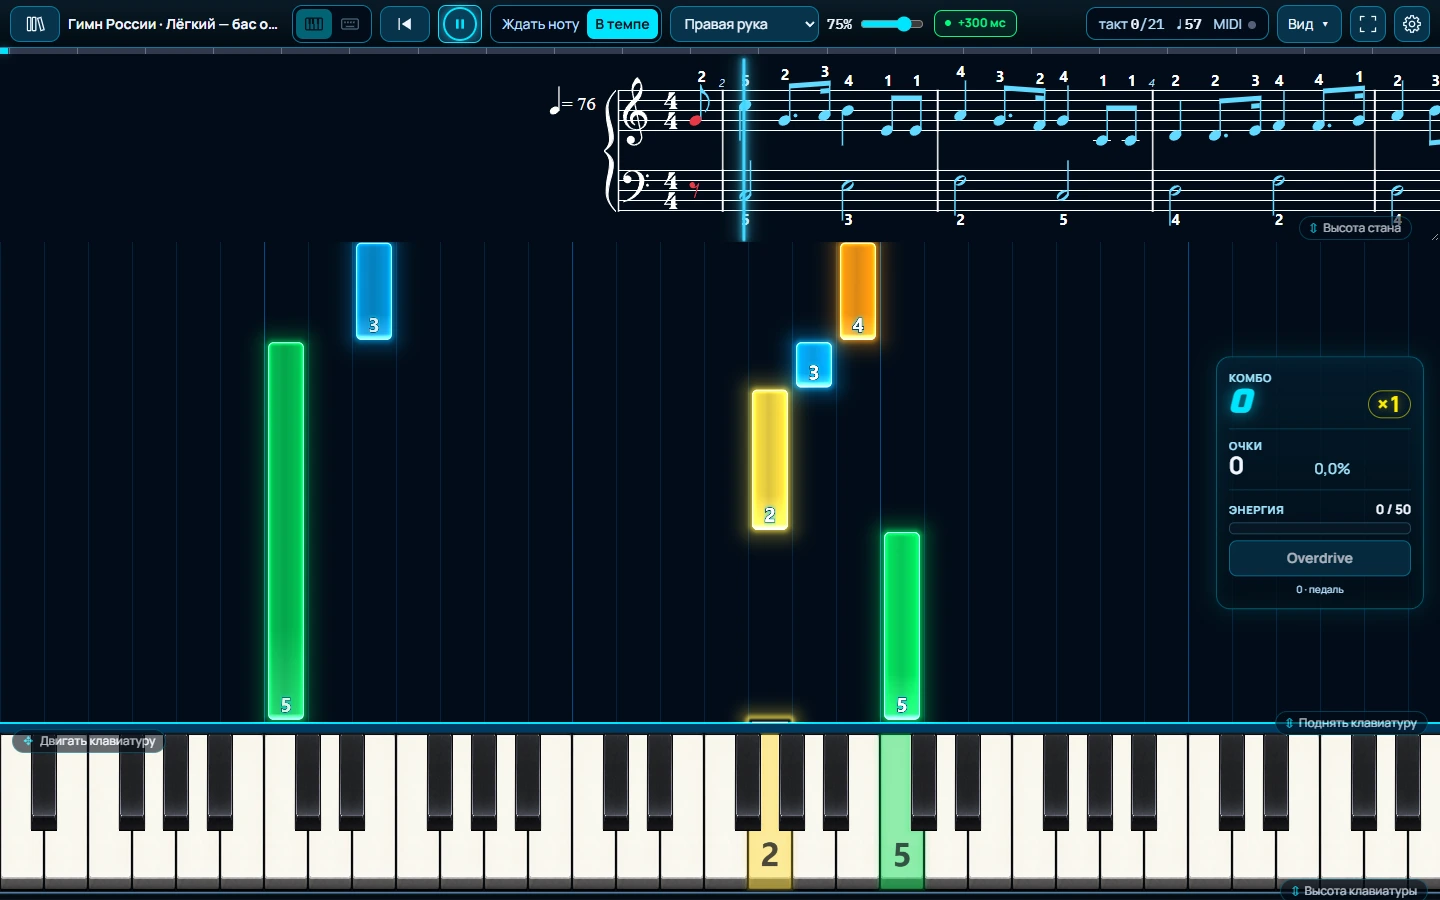
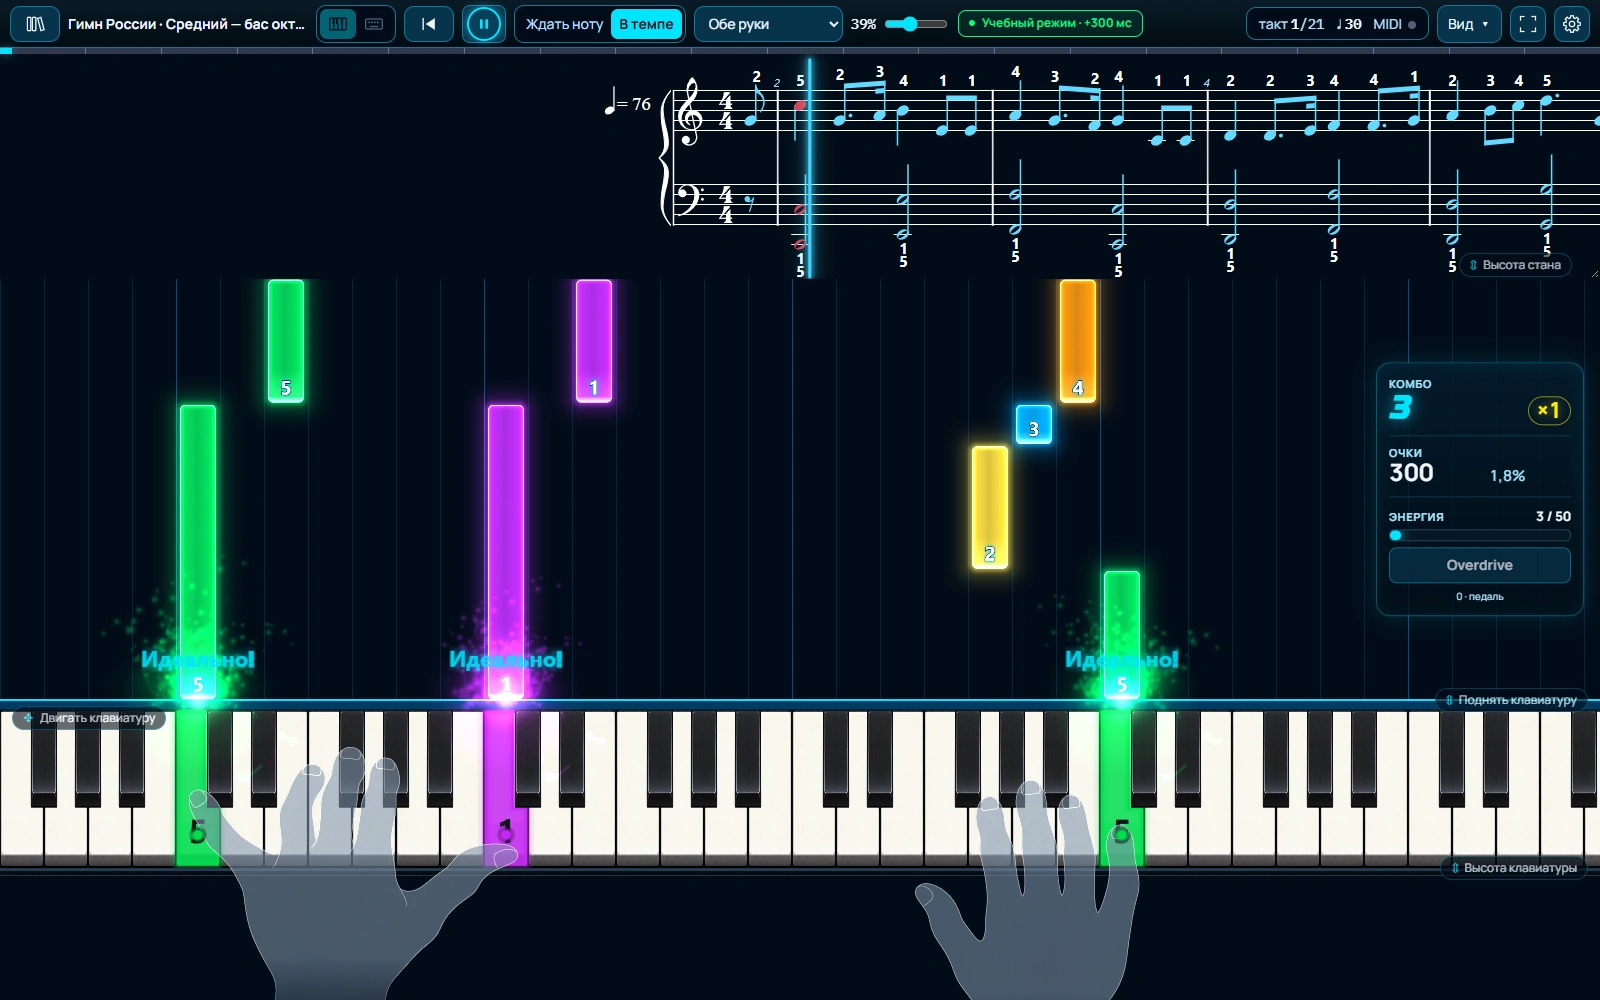
fix: show hands and burning notes in social preview

diff --git a/index.html b/index.html
@@ -27,13 +27,13 @@
       content="Попадай в ноты и учись играть: падающие ноты, подсказки пальцев, MIDI-пианино и компьютерная клавиатура."
     />
     <meta property="og:url" content="https://keys.twiling.ru/" />
-    <meta property="og:image" content="https://keys.twiling.ru/social-card-v1.png" />
+    <meta property="og:image" content="https://keys.twiling.ru/social-card-v2.png" />
     <meta property="og:image:type" content="image/png" />
     <meta property="og:image:width" content="1200" />
     <meta property="og:image:height" content="630" />
     <meta
       property="og:image:alt"
-      content="Нотопад: логотип с падающими нотами и экран игры с нотным станом и клавишами пианино"
+      content="Нотопад: падающие ноты, обе руки над пианино и свечение нажатых клавиш"
     />
     <meta name="twitter:card" content="summary_large_image" />
     <meta name="twitter:title" content="Нотопад — игра и тренажёр фортепиано" />
@@ -41,10 +41,10 @@
       name="twitter:description"
       content="Попадай в ноты и учись играть: падающие ноты, подсказки пальцев, MIDI-пианино и компьютерная клавиатура."
     />
-    <meta name="twitter:image" content="https://keys.twiling.ru/social-card-v1.png" />
+    <meta name="twitter:image" content="https://keys.twiling.ru/social-card-v2.png" />
     <meta
       name="twitter:image:alt"
-      content="Нотопад: логотип с падающими нотами и экран игры с нотным станом и клавишами пианино"
+      content="Нотопад: падающие ноты, обе руки над пианино и свечение нажатых клавиш"
     />
     <link rel="preconnect" href="https://fonts.googleapis.com" />
     <link rel="preconnect" href="https://fonts.gstatic.com" crossorigin />

diff --git a/docs/branding/README.md b/docs/branding/README.md
@@ -18,12 +18,13 @@
 - `public/favicon-32.png` — PNG для браузеров без поддержки SVG favicon.
 - `public/favicon.ico` — совместимый вариант с размерами 16, 32 и 48 пикселей.
 - `public/apple-touch-icon.png` — иконка 180×180 для добавления сайта на экран iOS.
-- `public/social-card-v1.png` — карточка 1200×630 для предпросмотра ссылки.
+- `public/social-card-v2.png` — карточка 1200×630 для предпросмотра ссылки.
 
 Исходник карточки — [social-card.svg](social-card.svg). Он использует
 [app-preview.webp](app-preview.webp): реальный кадр публичной игры с встроенным уроком, без
-пользовательских файлов. Для изменения карточки править SVG и экспортировать его в PNG 1200×630;
-оставлять `app-preview.webp` рядом с исходником. После изменения выбранного логотипа
+пользовательских файлов. В кадре включены обе руки и одновременно нажаты клавиши обеих партий: видны
+подсветка и эффект сгорания нот. Для изменения карточки править SVG и экспортировать его в PNG
+1200×630; оставлять `app-preview.webp` рядом с исходником. После изменения выбранного логотипа
 синхронизировать его в `public/favicon.svg`, листе прототипов и карточке, затем обновить растровые
 файлы.
 
@@ -31,7 +32,7 @@
 
 `index.html` содержит заголовок, описание, ключевые слова, canonical, Open Graph и Twitter Card
 `summary_large_image`. Адрес страницы и изображения абсолютные: `https://keys.twiling.ru/` и
-`https://keys.twiling.ru/social-card-v1.png`. Метаданные находятся в исходном HTML: ботам не нужно
+`https://keys.twiling.ru/social-card-v2.png`. Метаданные находятся в исходном HTML: ботам не нужно
 запускать React. Прежний домен продолжает работать без редиректа.
 
 После публикации проверить, что HTML содержит новые теги, а изображение отдаётся с кодом 200 и типом
